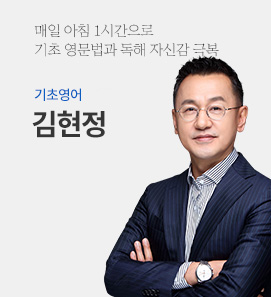
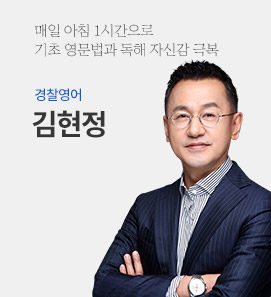
경찰 학원 메인

Changed region(s): [[0.3247, 0.1818, 1.0, 1.0], [0.1181, 0.2727, 0.2362, 0.3636], [0.9446, 0.9697, 0.9742, 1.0]]

diff --git a/views/willbes/pc/site/main_2002.blade.php b/views/willbes/pc/site/main_2002.blade.php
@@ -56,14 +56,14 @@
                     <li>
                         <img src="{{ img_url('cop_acad/prof/prof_wyc.jpg') }}" title="한국사 원유철">
                         <div class="caProfBtsn">
-                            <div><a href="{{ site_url('/pass/offLecture/index?cate_code=3010&course_idx=1040&subject_idx=1055&campus_ccd=605001') }}">한국사 기본<span>4.22 개강</span></a></div>
+                            <div><a href="{{ site_url('/pass/offLecture/index?cate_code=3010&course_idx=1040&subject_idx=1055&campus_ccd=605001') }}">한국사 기본<span>5.20 개강</span></a></div>
                             <div><a href="{{ site_url('/pass/offLecture/index?cate_code=3010&subject_idx=1055&course_idx=1041&campus_ccd=605001') }}">한국사 심화<span>5.6 개강</span></a></div>
                         </div>
                     </li>
                     <li>
                         <img src="{{ img_url('cop_acad/prof/prof_otj.jpg') }}" title="한국사 오태진">
                         <div class="caProfBtsn">
-                            <div><a href="{{ site_url('/pass/offLecture/index?cate_code=3010&course_idx=1040&subject_idx=1055&campus_ccd=605001') }}">한국사 기본<span>4.22 개강</span></a></div>
+                            <div><a href="{{ site_url('/pass/offLecture/index?cate_code=3010&course_idx=1040&subject_idx=1055&campus_ccd=605001') }}">한국사 기본<span>5.20 개강</span></a></div>
                             <div><a href="{{ site_url('/pass/offLecture/index?cate_code=3010&subject_idx=1055&course_idx=1041&campus_ccd=605001') }}">한국사 심화<span>5.8 개강</span></a></div>
                         </div>
                     </li>
@@ -84,13 +84,14 @@
                     <li>
                         <img src="{{ img_url('cop_acad/prof/prof_khj.jpg') }}" title="기초영어 김현정">
                         <div class="caProfBtsn">
-                            <div><a href="{{ site_url('/pass/offLecture/index?cate_code=3010&subject_idx=1095&course_idx=1046') }}">영어 지옥탈출반<span>5.6 개강</span></a></div>
+                            <div><a href="{{ site_url('/pass/offLecture/index?cate_code=3010&subject_idx=1095&course_idx=1046') }}">영어 아침특강<span>6.3 개강</span></a></div>
+                            <div><a href="{{ site_url('/pass/offLecture/index?cate_code=3010&subject_idx=1095&campus_ccd=605001&course_idx=1046') }}">영어 지옥탈출반<span>6.3 개강</span></a></div>
                         </div>
                     </li>
                     <li>
                         <img src="{{ img_url('cop_acad/prof/prof_kjk.jpg') }}" title="기초영어 김준기">
                         <div class="caProfBtsn">
-                            <div><a href="#none">영어 지옥탈출반<span>5.6 개강</span></a></div>
+                            <div><a href="{{ site_url('/pass/offLecture/index?cate_code=3010&subject_idx=1095&campus_ccd=605001&course_idx=1046') }}">영어 지옥탈출반<span>6.3 개강</span></a></div>
                         </div>
                     </li>
                     <li>
